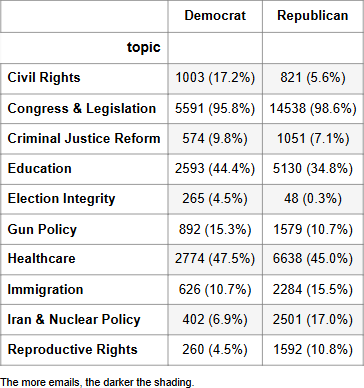
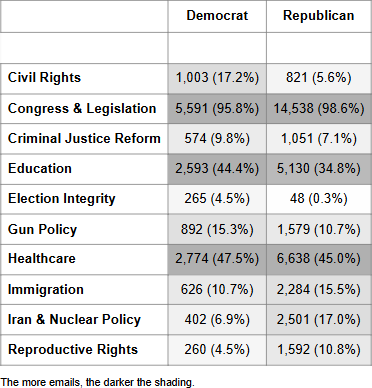
Fixed cell shading in theme email counts table figure

diff --git a/python/export_theme_email_counts_table_figure.py b/python/export_theme_email_counts_table_figure.py
@@ -1,6 +1,5 @@
 # -------------------------------------------------------------------
-# Process to export a figure that is a table of email counts
-# for all the themes we analyzed.
+# Export a table of email counts with percent shading
 # -------------------------------------------------------------------
 
 import pandas as pd
@@ -14,28 +13,16 @@ import os
 theme_table_df = pd.read_csv("../data/dcInbox/data_for_emails_by_theme_table_figure.csv")
 
 # -------------------------------
-# Create pivot table
-# -------------------------------
-theme_pt_df = theme_table_df.copy()
-# print(theme_pt_df)
-
-# Map Category to different labels (with line breaks)
-# mapping = {
-#     "Topic\nused": "Topic\nused in\nnewsletter",
-#     "Not\nused": "Topic\nnot used in\nnewsletter"
-# }
-# theme_pt_df["Category"] = theme_pt_df["Category"].map(mapping)
-
 # Specify sorting
-# pt_cat_order = ["Topic\nused in\nnewsletter", "Topic\nnot used in\nnewsletter"]
+# -------------------------------
 pt_party_order = ["Democrat", "Republican"]
+theme_table_df["party"] = pd.Categorical(theme_table_df["party"], categories=pt_party_order, ordered=True)
 
-# theme_pt_df["Category"] = pd.Categorical(theme_pt_df["Category"], categories=pt_cat_order, ordered=True)
-theme_pt_df["party"] = pd.Categorical(theme_pt_df["party"], categories=pt_party_order, ordered=True)
-
+# -------------------------------
 # Pivot table
+# -------------------------------
 theme_pt = pd.pivot_table(
-    theme_pt_df,
+    theme_table_df,
     index="topic",
     columns="party",
     values=["emails", "percent"],
@@ -44,75 +31,79 @@ theme_pt = pd.pivot_table(
     observed=True
 )
 
-# Set clip values for gradient
-gradient_df_clipped = theme_pt.clip(upper=1, lower=0)
-vmin = gradient_df_clipped['percent'].min()
-vmax = gradient_df_clipped['percent'].max()
-
-# Format cell contents to have both number and percent of emails
+# -------------------------------
+# Format cell strings: "emails (percent%)"
+# -------------------------------
 theme_formatted = pd.DataFrame(index=theme_pt.index)
 for party in theme_pt.columns.levels[1]:
     emails = theme_pt["emails", party].astype(int)
-    percent = theme_pt["percent",party]
-    theme_formatted[party] = emails.astype(str) + " (" + percent.map(lambda x: f"{x:.1f}") + "%)"
+    percent = theme_pt["percent", party]
+    # theme_formatted[party] = emails.map(str) + " (" + percent.map(lambda x: f"{x:.1f}") + "%)"
+    theme_formatted[party] = emails.map(lambda x: f"{x:,.0f}") + " (" + percent.map(lambda x: f"{x:.1f}") + "%)"
 
-print(theme_formatted)
-
-# Wrap headers (keep line breaks)
-# theme_pt_wrapped = theme_pt.copy()
-# theme_pt_wrapped.columns = pd.MultiIndex.from_tuples([
-#     (party, cat) for party, cat in theme_pt_wrapped.columns
-# ])
-
-# Remove index and column names
-# theme_pt_wrapped.index.name = None
-# theme_pt_wrapped.columns.names = [None]
+theme_formatted.index.name = ""
 
 # -------------------------------
-# Style 
+# Set cell shading
 # -------------------------------
+vmin, vmax = 0, 40
 cmap = LinearSegmentedColormap.from_list("white_gray", ["#ffffff", "#b0b0b0"])
 
+def percent_to_hex(val, vmin, vmax):
+    val_clipped = max(min(val, vmax), vmin)
+    rgba = cmap((val_clipped - vmin) / (vmax - vmin))
+    return '#%02x%02x%02x' % tuple(int(255*x) for x in rgba[:3])
+
+# Build a DataFrame of colors
+colors_df = pd.DataFrame(index=theme_formatted.index, columns=theme_formatted.columns)
+for col in theme_formatted.columns:
+    for idx in theme_formatted.index:
+        colors_df.at[idx, col] = f'background-color: {percent_to_hex(theme_pt["percent", col][idx], vmin, vmax)}'
+
+# Apply the colors using Styler
+theme_pt_styled = theme_formatted.style.apply(lambda _: colors_df, axis=None)
+
+# Apply coloring per column
+# for col in theme_formatted.columns:
+#     print("vmin:", vmin)
+#     print("vmax:", vmax)
+#     theme_pt_styled = theme_pt_styled.apply(color_cells, axis=1, col_name=col, vmin=vmin, vmax=vmax)
+
+# Add table styles and caption
 caption_size = "8pt"
+theme_pt_styled = theme_pt_styled.set_table_styles([
+    {'selector': 'th.row_heading', 'props': [
+        ('text-align', 'left'),
+        ('border', '1px solid gray'),
+        ('background-color', 'white'),
+        ('font-size', '10pt')
+    ]},
+    {'selector': 'th.col_heading', 'props': [
+        ('text-align', 'center'),
+        ('white-space', 'pre-wrap'),
+        ('border', '1px solid gray'),
+        ('background-color', 'white'),
+        ('font-size', '10pt')
+    ]},
+    {'selector': 'td', 'props': [
+        ('text-align', 'center'),
+        ('border', '1px solid gray'),
+        ('font-size', '10pt')
+    ]},
+    {'selector': 'th.blank', 'props': [
+        ('background-color', 'white'),
+        ('border', '1px solid gray')
+    ]},
+    {'selector': 'caption', 'props': [
+        ('caption-side', 'bottom'),
+        ('font-size', caption_size),
+        ('text-align', 'left'),
+        ('margin-top', '8pt')  
+    ]}
+], overwrite=False).set_caption("The more emails, the darker the shading.")
 
-theme_pt_styled = (
-    theme_formatted.style
-        # .format("{:.3f}")
-        .background_gradient(cmap=cmap, vmin=vmin, vmax=vmax)
-        .set_table_styles([
-            {'selector': 'th.row_heading', 'props': [
-                ('text-align', 'left'),
-                ('border', '1px solid gray'),
-                ('background-color', 'white'),
-                ('font-size', '10pt')
-            ]},
-            {'selector': 'th.col_heading', 'props': [
-                ('text-align', 'center'),
-                ('white-space', 'pre-wrap'),
-                ('border', '1px solid gray'),
-                ('background-color', 'white'),
-                ('font-size', '10pt')
-            ]},
-            {'selector': 'td', 'props': [
-                ('text-align', 'center'),
-                ('border', '1px solid gray'),
-                ('font-size', '10pt')
-            ]},
-            {'selector': 'th.blank', 'props': [
-                ('background-color', 'white'),
-                ('border', '1px solid gray')
-            ]},
-            {'selector': 'caption', 'props': [
-                ('caption-side', 'bottom'),
-                ('font-size', caption_size),
-                ('text-align', 'left'),
-                ('margin-top', '8pt')  
-            ]}
-        ], overwrite=False)
-        .set_caption("The more emails, the darker the shading.")
-)
-
+# -------------------------------
+# Export to PNG
+# -------------------------------
 os.makedirs("../figures", exist_ok=True)
-
-# Export to PNG 
 dfi.export(theme_pt_styled, "../figures/theme_email_count_table_paper.png")
